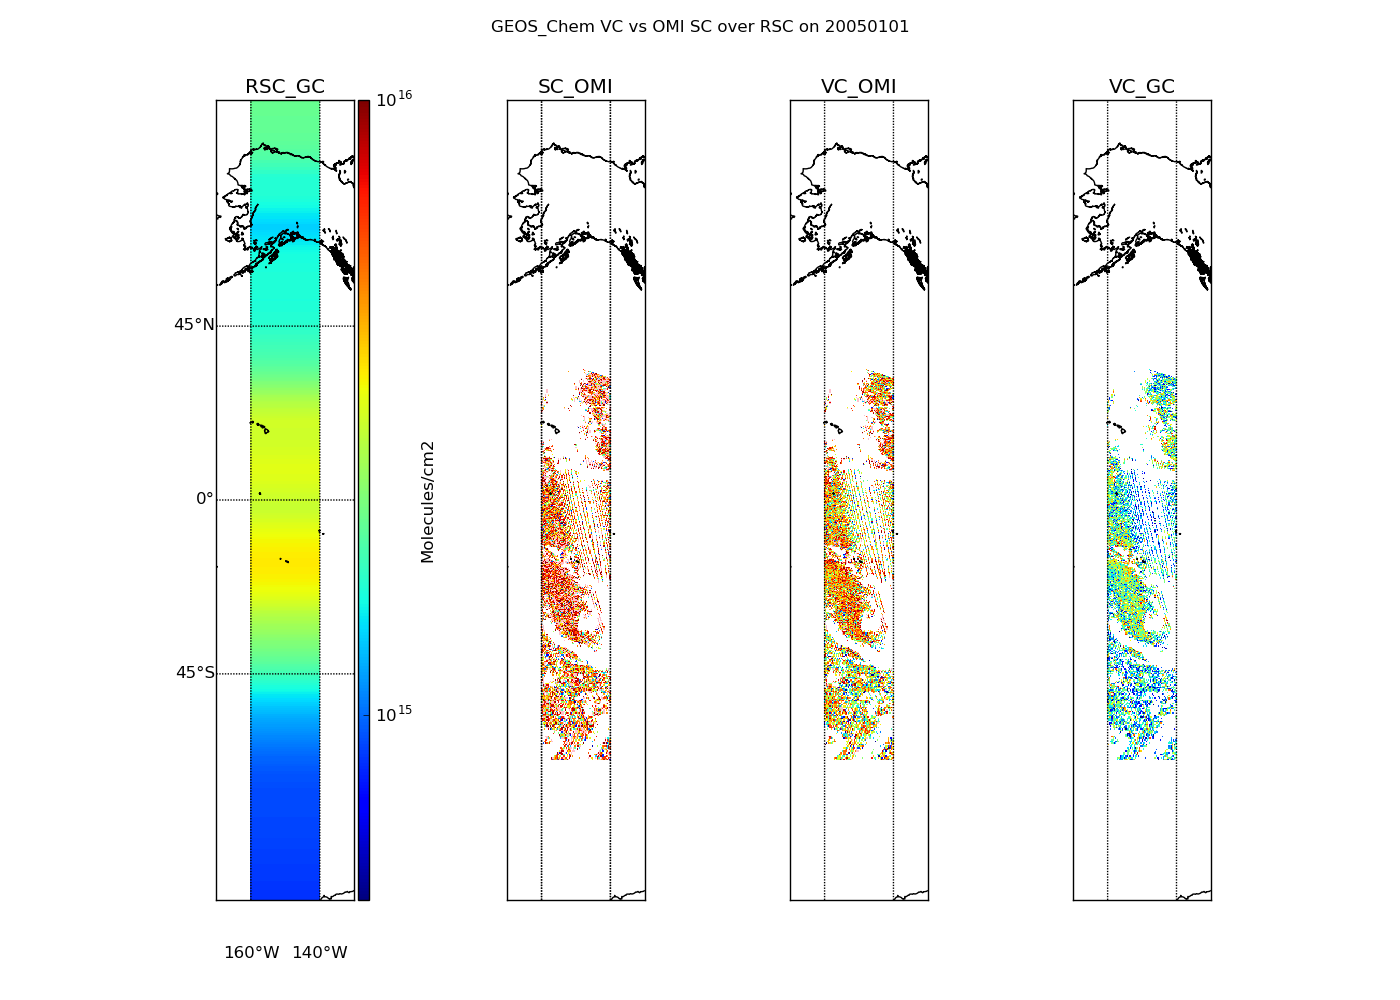
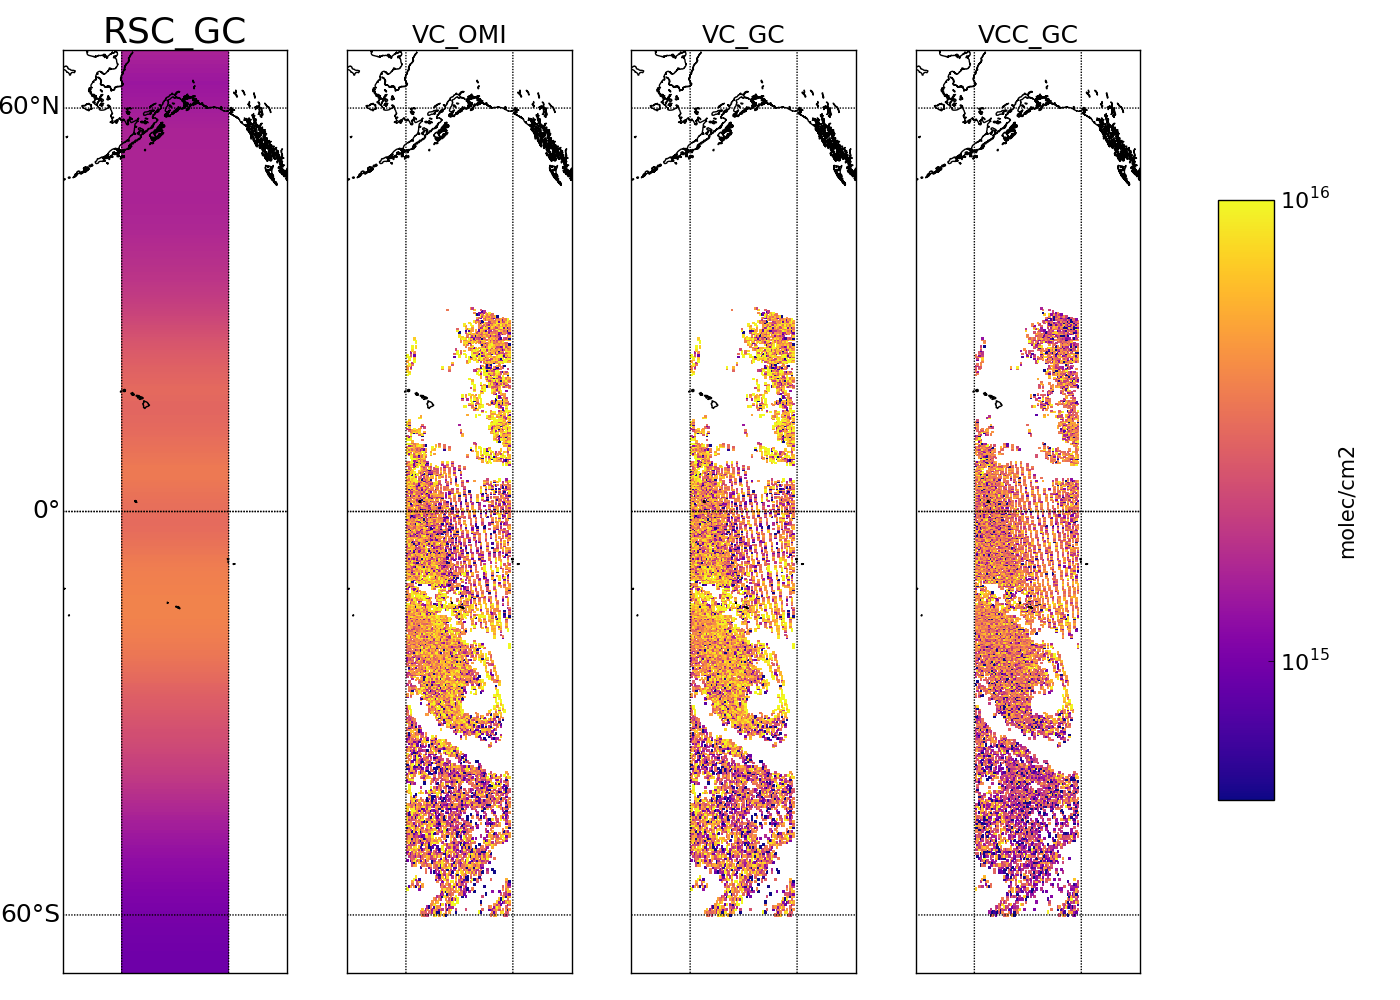
Updated RSC tests

diff --git a/tests/RSC_tests.py b/tests/RSC_tests.py
@@ -22,6 +22,7 @@ from copy import deepcopy as dcopy
 from datetime import datetime#, timedelta
 
 import matplotlib.pyplot as plt
+import matplotlib.colors
 from mpl_toolkits.mplot3d import Axes3D # 3d scatter
 #from matplotlib.colors import LogNorm # for lognormal colour bar
 #from matplotlib.ticker import FormatStrFormatter # tick formats
@@ -69,7 +70,16 @@ def plot_tracks(RSC,RSC_lats=np.linspace(-90,90,500),
         cb=plt.colorbar(sm)
         cb.set_label('track')
 
+def RSC_map(data,lats,lons, vmin=5e14, vmax=1e16, region=[-65, -171, 65, -129],
+            **createmapargs):
+    ''' Draw standard map around RSC region '''
 
+    m,cs,cb=pp.createmap(data, lats, lons, region=region,
+                         vmin=vmin, vmax=vmax, linear=False,
+                         **createmapargs)
+
+    m.drawmeridians([ -160, -140],labels=[0,0,0,0])
+    return m, cs, cb
 
 ########################
 ###     TESTS/Plots
@@ -115,18 +125,26 @@ def intercomparison(month=datetime(2005,1,1)):
     colours=['orange','green','purple']
     om=omrp(d0,dayn=dn, keylist=titles) #
     lats=om.RSC_latitude
+    tracks=np.arange(1,61,1) # excludes last point
     RSC=np.nanmean(om.RSC,axis=0) # RSC=[time, lats, track, type]
 
     vmin=-1e16
     vmax=1e16
-
+    #norm=matplotlib.colors.Normalize(vmin=vmin,vmax=vmax,clip=True)
     plt.figure(figsize=(15,15))
     for i in range(3):
         plt.subplot(2,3,1+i)
-        plt.contourf(range(60),lats,RSC[:,:,i],cmap=cmapname,vmin=vmin,vmax=vmax)
+
+        plt.pcolormesh(tracks,lats,np.ma.masked_invalid(RSC[:,:,i]),
+                      cmap=cmapname,vmin=vmin,vmax=vmax)
         plt.title(lables[i])
-        plt.xlabel('track')
-        plt.ylabel('latitude')
+        if i==0:
+            plt.ylabel('latitude')
+        if i==1:
+            plt.xlabel('track')
+        if i==2:
+            cb=plt.colorbar(orientation='vertical')
+            cb.set_label('molec/cm2')
         # plot the 60 tracks as lines
         plt.subplot(2,3,4+i)
         plot_tracks(RSC[:,:,i],labels=False, colorbar=i==2)
@@ -159,81 +177,53 @@ def check_RSC(day=datetime(2005,1,1), track_corrections=True):
     ref_lat_bins=omhchorp1['RSC_latitude']
     rsc_gc=omhchorp1['RSC_GC'] # RSC_GC is in molecs/cm2 as of 11/08/2016
 
+
+    ## plot the reference region,
+    # need to make 500x3 array for basemap not to lose its shit
+    rsc_gc_new = np.transpose(np.array([ rsc_gc, rsc_gc, rsc_gc] ))
+    # Make the GC map:
+    f2=plt.figure(1, figsize=(14,10))
+    plt.subplot(141)
+    rsc_lons=np.array([-160,-150,-140])
+    m,cs,cb = RSC_map(rsc_gc_new,ref_lat_bins,rsc_lons, GC_shift=False,colorbar=False)
+    m.drawparallels([-60,0,60],labels=[1,0,0,0])
+    plt.title('RSC_GC')
+
+    lats=omhchorp1['lats']
+    lons=omhchorp1['lons']
+    loni= (lons > -160) * (lons < -140)
+
+    # Plot the VC_OMI,GC, and the VCC_GC
+    for i,title in enumerate(['VC_OMI','VC_GC','VCC_GC']):
+        data=omhchorp1[title] # [ 720, 1152 ] molecs/cm2
+        # new map with OMI SC data
+        plt.subplot(142+i)
+        plt.title(title,fontsize=18)
+        m,cs,cb=RSC_map(data[:,loni],lats,lons[loni],
+                        colorbar=False)
+        m.drawparallels([-60,0,60],labels=[0,0,0,0])
+
+    #cb=m.colorbar(cs,"right",size="8%", pad="3%")
+    #f2.suptitle('RSC %s'%yyyymmdd,fontsize=20)
+    cb=pp.add_colourbar(f2,cs,ticks=None,label=None,fontsize=15)
+    cb.set_label('molec/cm2')
+
+
+
+
+    outfig2='Figs/RSC_GC_%s.png'%yyyymmdd
+    plt.savefig(outfig2)
+    print(outfig2+' saved')
+    plt.close(f2)
+
     if track_corrections:
+        f1=plt.figure(figsize=(12,12))
         plot_tracks(rsc[:,:,0])
         plt.title('Reference sector corrections for %s'%yyyymmdd,fontsize=20)
         pname='Figs/RSC_track_corrections%s.png'%yyyymmdd
         plt.savefig(pname)
         print('SAVED: ',pname)
-        plt.close()
-
-    def RSC_map(lons,lats,data,labels=[0,0,0,0]):
-        ''' Draw standard map around RSC region '''
-        vmin, vmax= 5e14, 1e16
-        lat0, lat1, lon0, lon1=-75, 75, -170, -130
-        m=Basemap(lon0,lat0,lon1,lat1, resolution='i', projection='merc')
-        cs=m.pcolormesh(lons, lats, data, latlon=True,
-              vmin=vmin,vmax=vmax,norm = LogNorm(), clim=(vmin,vmax))
-        cs.cmap.set_under('white')
-        cs.cmap.set_over('pink')
-        cs.set_clim(vmin,vmax)
-        m.drawcoastlines()
-        m.drawmeridians([ -160, -140],labels=labels)
-        return m, cs
-
-    ## plot the reference region,
-    #
-    # we need 501x3 bounding edges for our 500x2 2D data (which is just the 500x1 data twice)
-    rsc_lat_edges= list(ref_lat_bins-0.18)
-    rsc_lat_edges.append(90.)
-    rsc_lat_edges = np.array(rsc_lat_edges)
-    lons_gc, lats_gc = np.meshgrid( [-160., -150, -140.], rsc_lat_edges )
-
-    # Make the GC map:
-    f2=plt.figure(1, figsize=(14,10))
-    plt.subplot(141)
-    rsc_gc_new = np.transpose(np.array([ rsc_gc, rsc_gc] ))
-    m,cs = RSC_map(lons_gc,lats_gc,rsc_gc_new, labels=[0,0,0,1])
-    m.drawparallels([-45,0,45],labels=[1,0,0,0])
-    cb=m.colorbar(cs,"right",size="8%", pad="3%")
-    cb.set_label('Molecules/cm2')
-    plt.title('RSC_GC')
-
-    # add the OMI reference sector for comparison
-    sc_omi=omhchorp1['SC'] # [ 720, 1152 ] molecs/cm2
-    lats_rp=omhchorp1['latitude']
-    lons_rp=omhchorp1['longitude']
-    rsc_lons= (lons_rp > -160) * (lons_rp < -140)
-    newlons=pp.regularbounds(lons_rp[rsc_lons])
-    newlats=pp.regularbounds(lats_rp)
-    newlons,newlats = np.meshgrid(newlons,newlats)
-    # new map with OMI SC data
-    plt.subplot(142)
-    plt.title("SC_OMI")
-    m,cs=RSC_map(newlons, newlats, sc_omi[:,rsc_lons])
-    m.drawmeridians([ -160, -140],labels=[0,0,0,0])
-
-    ## Another plot using OMI_VC (old reprocessed data)
-    #
-    vc_omi=omhchorp1['VC_OMI']
-    plt.subplot(143)
-    plt.title('VC_OMI')
-    m,cs=RSC_map(newlons,newlats,vc_omi[:,rsc_lons])
-
-    ## One more with VC_GC over the ref sector
-    #
-    vc_gc=omhchorp1['VC_GC'] # [ 720, 1152 ] molecs/cm2
-    # new map with OMI SC data
-    plt.subplot(144)
-    plt.title("VC_GC")
-    m,cs=RSC_map(newlons,newlats,vc_gc[:,rsc_lons])
-
-
-    f2.suptitle('GEOS_Chem VC vs OMI SC over RSC on %s'%yyyymmdd)
-    outfig2='Figs/RSC_GC_%s.png'%yyyymmdd
-    plt.savefig(outfig2)
-    print(outfig2+' saved')
-    plt.close(f2)
+        plt.close(f1)
 
 def Summary_RSC(month=datetime(2005,1,1)):
     '''

diff --git a/utilities/plotting.py b/utilities/plotting.py
@@ -118,8 +118,10 @@ def add_colourbar(f,cs,ticks=None,label=None,fontsize=15):
     f.subplots_adjust(right=0.84)
     cbar_ax = f.add_axes([0.87, 0.20, 0.04, 0.6])
     cb=f.colorbar(cs,cax=cbar_ax)
-    cb.set_ticks(ticks)
+    if ticks is not None:
+        cb.set_ticks(ticks)
     cb.set_label(label,fontsize=fontsize)
+    return cb
 
 def add_rectangle(bmap, limits, color='k', linewidth=1):
     '''
@@ -272,6 +274,9 @@ def createmap(data, lats, lons, make_edges=False, GC_shift=True,
     data=data[lati,:]
     data=data[:,loni]
     lats=lats[lati]
+    #print(lons)
+    #print(loni)
+
     lons=lons[loni]
 
 
@@ -366,6 +371,8 @@ def createmap(data, lats, lons, make_edges=False, GC_shift=True,
         shapes=tuple([ str(np.shape(a)) for a in [mlats_e, mlons_e, mdata, mdata.mask] ])
         print("lats: %s, lons: %s, data: %s, mask: %s"%shapes)
 
+    #for arr in mlons_e,mlats_e,mdata:
+    #    print(np.shape(arr))
     cs=m.pcolormesh(mlons_e, mlats_e, mdata, **pcmeshargs)
     # colour limits for contour mesh
     cs.set_clim(vmin,vmax)
@@ -455,7 +462,7 @@ def hatchmap(m, datamap, lats, lons, thresh, region=None,hatch='x',color='k'):
     mx,my = m(mlons,mlats)
     m.pcolor(mx, my, aaod_masked, hatch=hatch, color=color, alpha=0.)
 
-def get_colors(cmapname,howmany, values=None,vmin=None,vmax=None):
+def get_colors(cmapname, howmany, values=None,vmin=None,vmax=None):
     cmap=plt.cm.cmap_d[cmapname]
     if values is not None:
         if vmin is None:

diff --git a/tests.py b/tests.py
@@ -4,7 +4,7 @@
 '''
 ## Modules
 import matplotlib
-matplotlib.use('Agg') # don't actually display any plots, just create them
+#matplotlib.use('Agg') # don't actually display any plots, just create them
 
 # my file reading and writing module
 from utilities import fio
@@ -1782,10 +1782,10 @@ if __name__ == '__main__':
 
     ## Plots showing how it works
     #RSC_tests.summary(date) # Last run 31/5/18 # last run 18/5/18 - needs work
-    RSC_tests.check_RSC(date) # needs update
+    #RSC_tests.check_RSC(date) # Last run 4/6/18
 
     ## Look at different ways of making the RSC (different AMFs)
-    RSC_tests.intercomparison(date) # last run 1/6/18
+    RSC_tests.intercomparison(date) # last run 4/6/18
 
 
     #####################

diff --git a/localtests.py b/localtests.py
@@ -48,7 +48,6 @@ lonres=0.3125
 dN=datetime(2005,1,5)
 d3=datetime(2005,3,1)
 dates=util.list_days(d0,dN,month=False)
-
 # start timer
 start1=timeit.default_timer()
 
@@ -57,6 +56,16 @@ start1=timeit.default_timer()
 ##########
 
 
+month=datetime(2005,1,1)
+d0=util.first_day(month)
+om=omhchorp(d0)
+lats=om.RSC_latitude
+tracks=np.arange(1,61,1) # excludes last point
+om.RSC.shape
+RSC=np.ma.masked_invalid(om.RSC[:,:,0])
+
+plt.pcolormesh(tracks,lats,RSC,cmap='plasma',vmin=-1e16,vmax=1e16)
+cb=plt.colorbar()
 
 ###########
 ### Record and time STUJFFS
